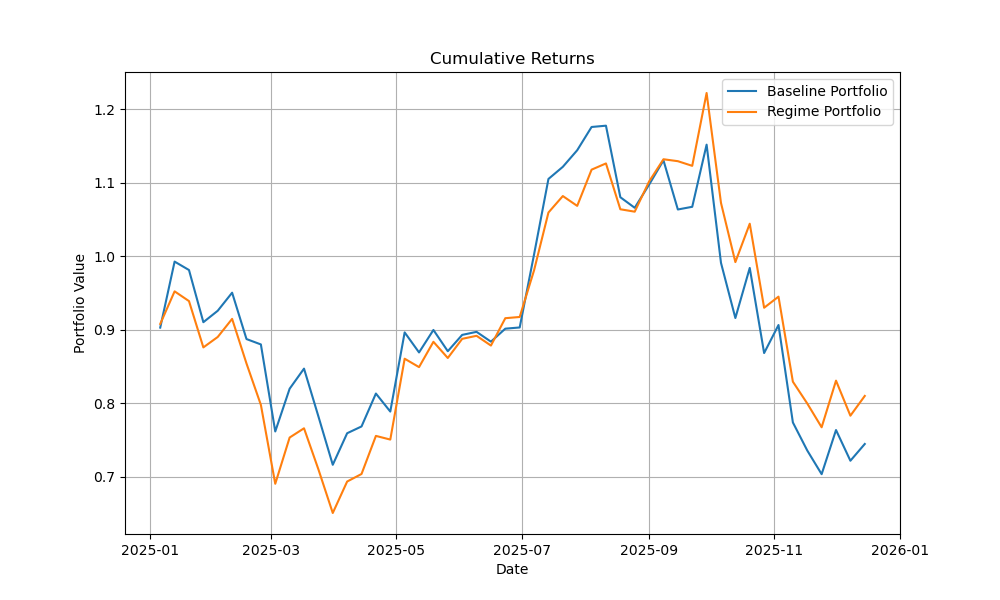
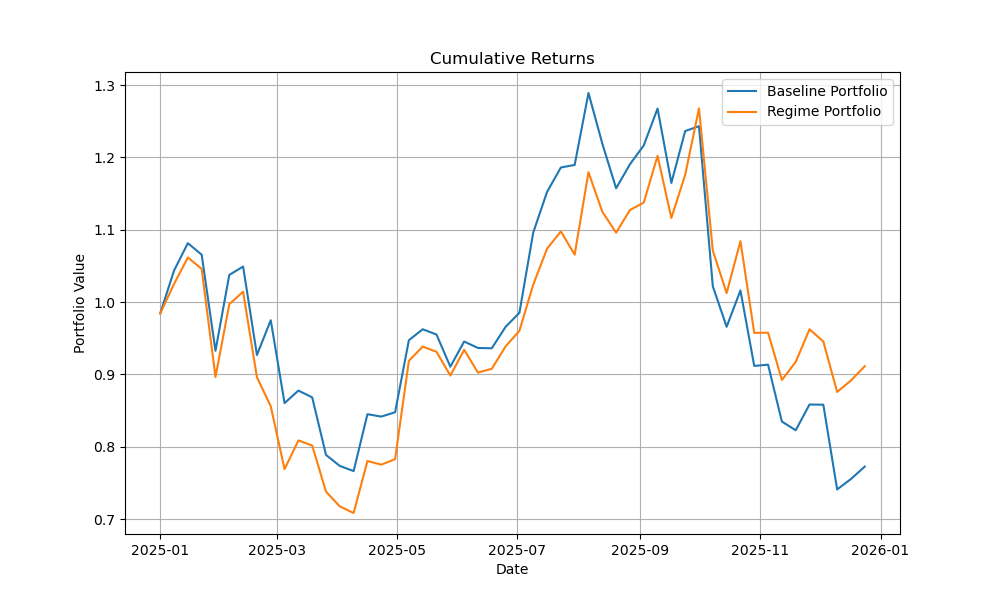
Fix test_dates in data_preprocessing.py to match weekly rebalancing

diff --git a/backtest.py b/backtest.py
@@ -80,39 +80,41 @@ def run_backtest(mu, real_returns, window=20, lamda=5.0, eval_dates=None):
     dates = mu.index
     assets = mu.columns
 
-    if eval_dates is not None:
-        eval_dates = set(pd.to_datetime(eval_dates))
+    if eval_dates is None or len(eval_dates) == 0:
+        raise ValueError("eval_dates must be provided and cannot be empty")
 
-    for t in range(window * 7, len(dates) - 7, 7):
-        current_date = dates[t]
+    eval_dates = pd.to_datetime(eval_dates)
 
-        hist_7d = real_returns.iloc[t-window*7:t].iloc[::7].values
-        if hist_7d.shape[0] < window:
-            print(f"Warning: insufficient history for cov computationat t={t}, skipping")
+    missing = set(eval_dates) - set(mu.index)
+    if missing:
+        raise ValueError(f"Some eval_dates not found in mu index: {sorted(list(missing))[:5]}")
+
+    for current_date in sorted(eval_dates):
+        t = dates.get_loc(current_date)
+        
+        # need window*7 rows of history before t
+        if t < window * 7:
+            print(f"Insufficient history at {current_date}, skipping")
             continue
-
+        
+        hist_7d = real_returns.iloc[t - window*7 : t].iloc[::7].values
+        if hist_7d.shape[0] < window:
+            continue
+        
         mu_t = mu.iloc[t].values
         cov_t = np.cov(hist_7d.T)
-
-        if np.isnan(mu_t).any() or np.isnan(hist_7d).any():
-            print(f"Warning: missing return data at t={t}, skipping")
+        
+        if np.isnan(mu_t).any() or np.isnan(cov_t).any() or np.isinf(cov_t).any():
             continue
-        if np.any(np.isnan(cov_t)) or np.any(np.isinf(cov_t)):
-            print(f"Warning: degenerate cov at t={t}, skipping")
-            continue
-
+        
+        cov_t = cov_t + 1e-6 * np.eye(cov_t.shape[0])  # regularisation
         w_t = optimize_portfolio(mu_t, cov_t, lamda=lamda)
-
-        # only evaluate on true test dates
-        if eval_dates is not None and current_date not in eval_dates:
-            continue
-
-        r_next = real_returns.iloc[t].values
+        
+        r_next = real_returns.loc[current_date].values
         if np.isnan(r_next).any():
             continue
-
+        
         port_ret = np.dot(w_t, r_next)
-
         portfolio_returns.append((current_date, port_ret))
         weights_history.append((current_date, w_t))
     

diff --git a/data_processing.py b/data_processing.py
@@ -46,6 +46,9 @@ def load_data(path):
     # keep only test dates for evaluation
     test_dates = sorted(df.loc[df["split"] == "test", "date"].unique())
 
+    # take every 7th date to match weekly rebalancing
+    test_dates = test_dates[::7]
+
     mu_baseline = df_hist[df_hist["model_type"] == "baseline"].pivot(index="date", columns="crypto", values="y_pred")
     mu_regime   = df_hist[df_hist["model_type"] == "regime"].pivot(index="date", columns="crypto", values="y_pred")
     real_returns = df_hist[df_hist["model_type"] == "baseline"].pivot(index="date", columns="crypto", values="y_true")

diff --git a/run_portfolio.py b/run_portfolio.py
@@ -52,6 +52,11 @@ def main():
     # EDIT - run backtests with test_dates
     base_ret, base_w = run_backtest(mu_base, returns, eval_dates=test_dates)
     reg_ret, reg_w   = run_backtest(mu_regime, returns, eval_dates=test_dates)
+    
+    print("--- Check Weekly Structure ---")
+    print(f"Expected for weekly over 1 year: ~52")
+    print(f"Date gaps between observations:")
+    print(pd.Series(base_ret.index).diff().value_counts().head())
 
     # compute cumulative returns
     cum_base = (1 + base_ret).cumprod()
